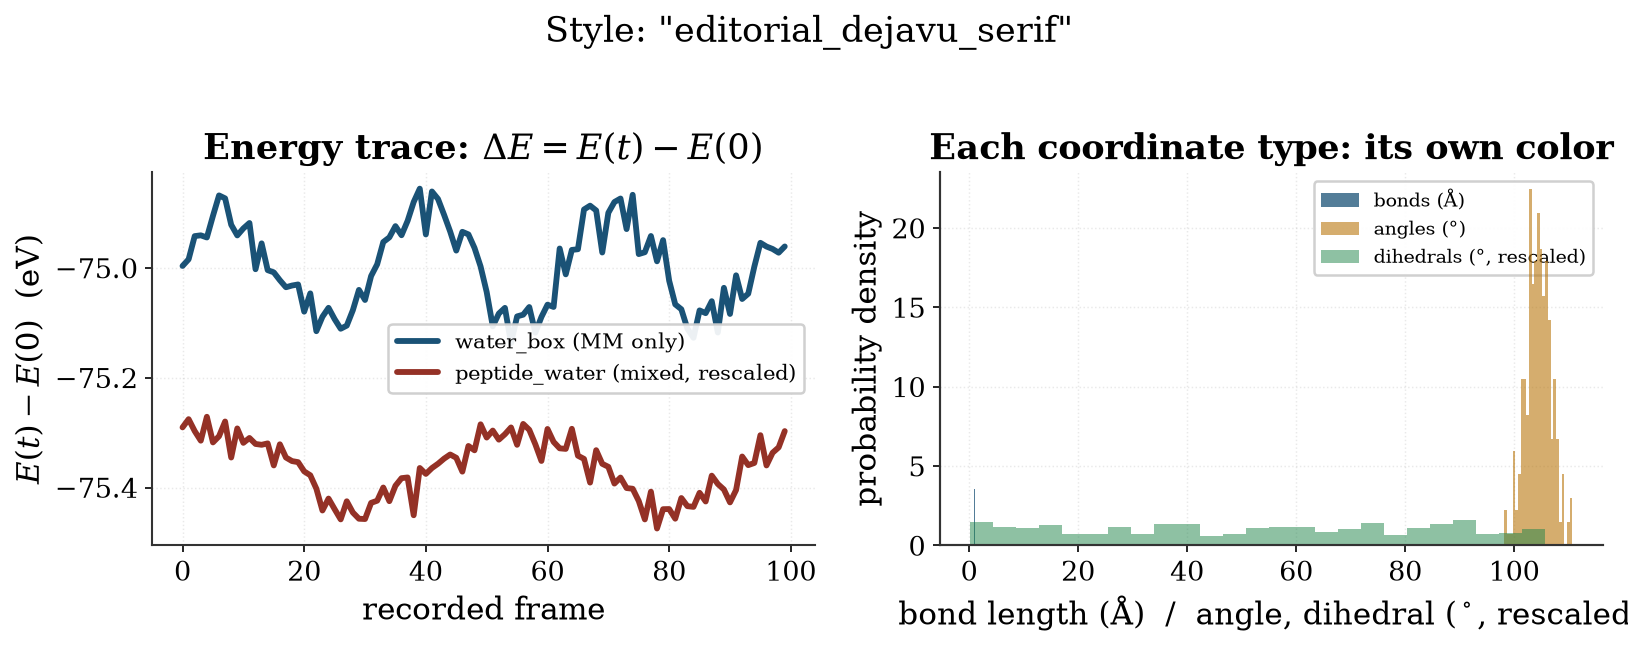
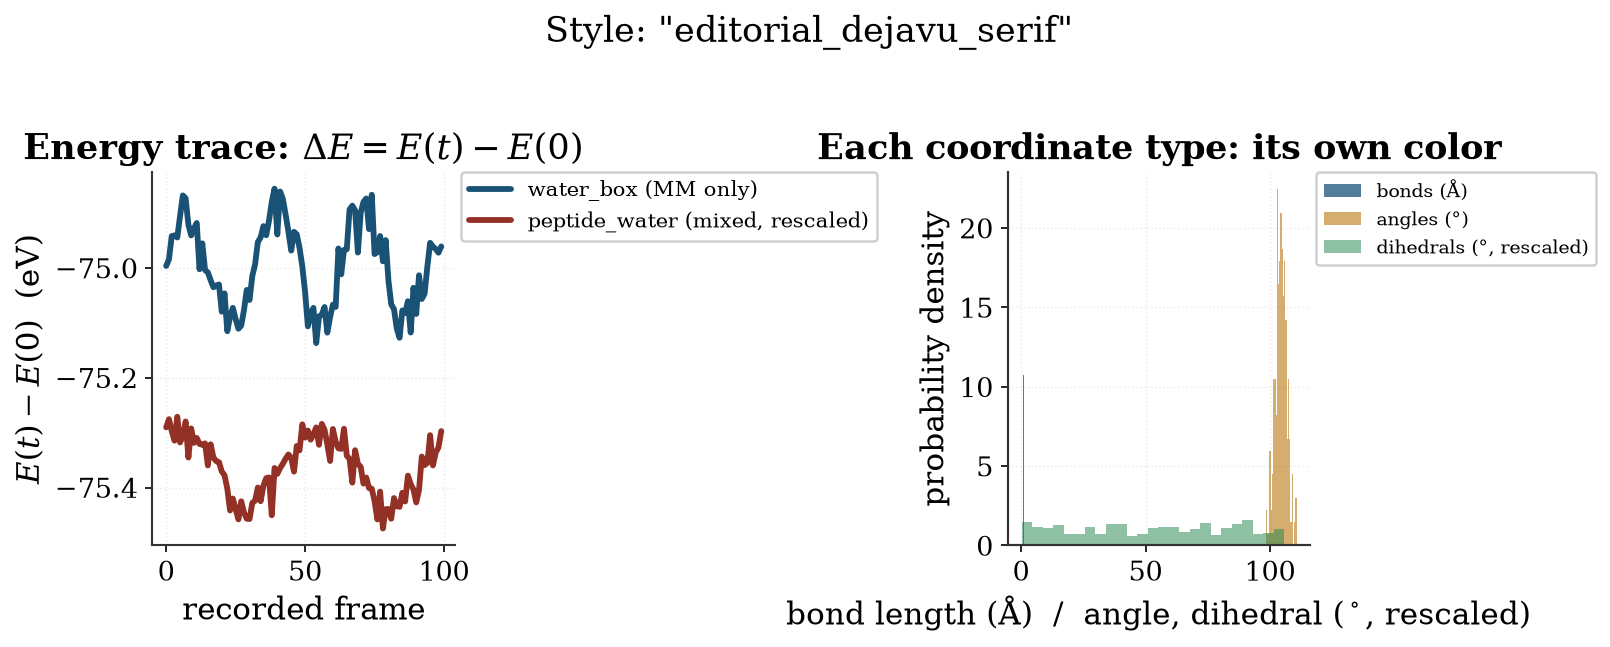
feat: add ICML-vibe plot preset, legend_outside rule, ASE-atoms style note
New "icml" preset (mmml/utils/plotting/styles.py): clean sans-serif, muted
seaborn-deep-style categorical colors, moderate type -- closer to a Google
look with an ML-conference-paper feel, per feedback that the editorial_*
serif fonts weren't to taste. Now the default for both workflows'
plot_results.py and plot_structure.py.

New legend_outside(axis, **kwargs) helper: places the legend to the right
of the axes (bbox_to_anchor) instead of overlapping data, and lets it grow
long (reads like a small table) for many-setting sweeps -- new house rule
documented in docs/plotting-style-guide.md "Legends live outside the plot".
Applied to every legend in both plot_results.py scripts and the gallery
renderer.

docs/plotting-style-guide.md also gains a note on rendering ASE Atoms
(molecule structure drawings): reuse scripts/plot_utils.py::render_dimer_atoms,
the existing good precedent from the SpookyNet dimer-scan figures
(scripts/plot_1d_slices_by_offset.py, scripts/plot_2d_pes.py) -- jmol
element colors, covalent-radius atom sizing, depth-sorted alpha, projected
force arrows.

docs/plot-style-gallery.md updated with the icml render and the dropped
editorial_stixsans variant already noted.

diff --git a/mmml/utils/plotting/styles.py b/mmml/utils/plotting/styles.py
@@ -16,6 +16,7 @@ __all__ = [
     "get_plot_style",
     "list_plot_styles",
     "comparison_colors",
+    "legend_outside",
 ]
 
 
@@ -280,6 +281,66 @@ _EDITORIAL_RC_CM = _editorial_rc(
     family="serif", serif=["DejaVu Serif"], mathtext_fontset="cm")
 
 
+# ICML/NeurIPS-paper-figure vibe: clean sans-serif, moderate (not oversized)
+# type, muted "seaborn deep"-style categorical colors, legend meant to live
+# OUTSIDE the axes (see legend_outside() below) rather than overlapping data.
+# This is the closest preset to a modern ML-conference plot: less soft/round
+# than "google", less serif/journal than the editorial_* family.
+_ICML_COLORS = {
+    "train": "#4C72B0",   # muted blue
+    "valid": "#DD8452",   # muted orange
+    "best": "#55A868",    # muted green
+    "accent": "#C44E52",  # muted red
+    "lr": "#8172B2",      # muted purple
+    "muted": "#937860",   # muted brown
+}
+_ICML_RC = {
+    "figure.facecolor": "white",
+    "axes.facecolor": "white",
+    "axes.edgecolor": "#444444",
+    "axes.linewidth": 1.0,
+    "axes.labelsize": 13,
+    "axes.titlesize": 14,
+    "axes.titleweight": "bold",
+    "axes.spines.top": False,
+    "axes.spines.right": False,
+    "axes.grid": True,
+    "grid.alpha": 0.25,
+    "grid.linestyle": "-",
+    "grid.linewidth": 0.6,
+    "grid.color": "#DDDDDD",
+    "axes.axisbelow": True,
+    "legend.framealpha": 0.95,
+    "legend.fontsize": 11,
+    "legend.edgecolor": "#CCCCCC",
+    "xtick.labelsize": 12,
+    "ytick.labelsize": 12,
+    "font.family": "sans-serif",
+    "font.sans-serif": ["Helvetica Neue", "Arial", "DejaVu Sans"],
+    "font.size": 12,
+    "mathtext.fontset": "dejavusans",
+    "lines.linewidth": 2.4,
+    "lines.solid_capstyle": "round",
+    "lines.markersize": 7,
+    "patch.linewidth": 1.0,
+    "savefig.dpi": 200,
+}
+
+
+def legend_outside(axis, *, ncol: int = 1, **kwargs: Any):
+    """Place a legend outside the axes (right-hand side), per house convention.
+
+    Legends must never overlap plotted data -- see
+    docs/plotting-style-guide.md "Legends live outside the plot". A legend
+    placed this way is also free to grow large (many entries, long labels)
+    without crowding the data, so it can double as a compact table when
+    useful (e.g. one row per setting with its color/marker as the row key).
+    """
+    return axis.legend(
+        loc="upper left", bbox_to_anchor=(1.02, 1.0), borderaxespad=0.0, ncol=ncol, **kwargs
+    )
+
+
 # Classic matplotlib defaults (pre-seaborn era feel).
 _MPL_CLASSIC_COLORS = {
     "train": "#1f77b4",
@@ -419,6 +480,15 @@ PLOT_STYLES: dict[str, PlotStyle] = {
         comparison_palette=("#1A5276", "#943126", "#B9770E", "#1E8449", "#6C3483", "#5D6D7E"),
         train_linewidth=2.8, valid_linewidth=3.2, best_marker_edge="#222222", best_marker_size=160.0,
         text_box={"boxstyle": "round", "facecolor": "#FBFBF8", "edgecolor": "#999999", "alpha": 0.95},
+    ),
+    "icml": _style(
+        "icml",
+        "ICML/NeurIPS-paper vibe: clean sans-serif, muted categorical colors, "
+        "legend meant to live outside the axes (see legend_outside()).",
+        colors=_ICML_COLORS, rc_params=_ICML_RC,
+        comparison_palette=("#4C72B0", "#DD8452", "#55A868", "#C44E52", "#8172B2", "#937860"),
+        train_linewidth=2.4, valid_linewidth=2.6, best_marker_edge="#333333", best_marker_size=130.0,
+        text_box={"boxstyle": "round", "facecolor": "#FAFAFA", "edgecolor": "#CCCCCC", "alpha": 0.95},
     ),
     "mpl_classic": _style(
         "mpl_classic",

diff --git a/scripts/render_plot_style_gallery.py b/scripts/render_plot_style_gallery.py
@@ -1,13 +1,12 @@
 #!/usr/bin/env python3
-"""Render the same example figure under every 'editorial_*' font variant.
+"""Render the same example figure under every registered style variant.
 
 Produces docs/plot-style-gallery-assets/<style>.png for each style so
 docs/plot-style-gallery.md can show them side by side -- lets a human pick a
-typeface by eye rather than from a description. See
-docs/plotting-style-guide.md "Semantic color, not palette index" for the
-non-font parts of the convention (these examples also demonstrate it: each
-data *type* -- bonds/angles/dihedrals -- gets its own color, not one blue
-reused three times).
+look by eye rather than from a description. Also demonstrates two other
+house rules from docs/plotting-style-guide.md: "Semantic color, not palette
+index" (bonds/angles/dihedrals each get their own color, not one blue reused
+three times) and "Legends live outside the plot" (via legend_outside()).
 """
 
 from __future__ import annotations
@@ -17,7 +16,7 @@ from pathlib import Path
 import matplotlib.pyplot as plt
 import numpy as np
 
-from mmml.utils.plotting.styles import apply_plot_style, get_plot_style
+from mmml.utils.plotting.styles import apply_plot_style, get_plot_style, legend_outside
 
 OUT_DIR = Path(__file__).resolve().parents[1] / "docs" / "plot-style-gallery-assets"
 
@@ -41,7 +40,7 @@ def _example_figure(style_name: str) -> plt.Figure:
     ax_trace.set_xlabel("recorded frame")
     ax_trace.set_ylabel(r"$E(t) - E(0)$  (eV)")
     ax_trace.set_title(r"Energy trace: $\Delta E = E(t) - E(0)$")
-    ax_trace.legend(fontsize=10, loc="best")
+    legend_outside(ax_trace, fontsize=10)
 
     # Each coordinate TYPE gets its own semantic color -- not one blue reused
     # for bonds/angles/dihedrals (the mistake this gallery/fix addresses).
@@ -59,7 +58,7 @@ def _example_figure(style_name: str) -> plt.Figure:
     ax2.set_yticks([])
     lines1, labels1 = ax_hist.get_legend_handles_labels()
     lines2, labels2 = ax2.get_legend_handles_labels()
-    ax_hist.legend(lines1 + lines2, labels1 + labels2, fontsize=9, loc="upper right")
+    legend_outside(ax2, handles=lines1 + lines2, labels=labels1 + labels2, fontsize=9)
 
     fig.suptitle(f'Style: "{style_name}"', y=1.03)
     fig.tight_layout()
@@ -73,6 +72,7 @@ def main() -> None:
         "editorial_dejavu_serif",
         "editorial_stix",
         "editorial_cm",
+        "icml",
     ]
     for name in variants:
         plt.rcdefaults()

diff --git a/workflows/mixed_calculator_sweep/scripts/plot_results.py b/workflows/mixed_calculator_sweep/scripts/plot_results.py
@@ -36,9 +36,9 @@ import matplotlib.pyplot as plt
 import numpy as np
 
 from mmml.md.results import energy_drift_metrics
-from mmml.utils.plotting.styles import apply_plot_style
+from mmml.utils.plotting.styles import apply_plot_style, legend_outside
 
-_STYLE_NAME = "editorial_dejavu_serif"  # swap freely -- see docs/plot-style-gallery.md
+_STYLE_NAME = "icml"  # see docs/plot-style-gallery.md
 
 # Semantic system -> color (see module docstring). Not palette-index colors.
 _SYSTEM_COLORS = {"water_box": "#1A5276", "peptide_water": "#943126"}
@@ -124,7 +124,9 @@ def plot_energy_traces(rows: list[dict[str, str]], results_dir: Path, out: Path)
 
     ax_main.set_ylabel(r"$E(t) - E(0)$  (eV)")
     ax_main.set_title(r"Energy traces relative to $E(0)$  (dashed = trend fit, band = $\pm\sigma$)")
-    ax_main.legend(fontsize=10, ncol=2, loc="best", framealpha=0.85, edgecolor="#CCCCCC")
+    # Outside the axes (never over the data) -- with this many settings the
+    # legend is long, and reads like a table (color+marker -> setting name).
+    legend_outside(ax_main, fontsize=10)
 
     ax_outlier.set_xlabel("recorded frame (every record_every steps)")
     ax_outlier.set_ylabel(r"$E(t) - E(0)$  (eV)")
@@ -132,7 +134,7 @@ def plot_energy_traces(rows: list[dict[str, str]], results_dir: Path, out: Path)
         ax_outlier.set_title(
             f"Large-swing settings (own axis): {', '.join(sorted(outliers))}"
         )
-        ax_outlier.legend(fontsize=10, loc="best", framealpha=0.85, edgecolor="#CCCCCC")
+        legend_outside(ax_outlier, fontsize=10)
     else:
         ax_outlier.set_title("No settings exceeded the 1000 eV outlier threshold")
 
@@ -189,7 +191,7 @@ def plot_summary_bars(rows: list[dict[str, str]], results_dir: Path, out: Path) 
     from matplotlib.patches import Patch
     handles = [Patch(facecolor=c, edgecolor="#222222", label=_SYSTEM_LABELS[s])
                for s, c in _SYSTEM_COLORS.items()]
-    ax_fluct.legend(handles=handles, loc="upper left", fontsize=11, framealpha=0.85, edgecolor="#CCCCCC")
+    legend_outside(ax_fluct, handles=handles, fontsize=11)
 
     fig.tight_layout()
     fig.savefig(out, dpi=200, bbox_inches="tight")

diff --git a/workflows/unified_backend_sweep/scripts/plot_results.py b/workflows/unified_backend_sweep/scripts/plot_results.py
@@ -29,9 +29,9 @@ from pathlib import Path
 
 import matplotlib.pyplot as plt
 
-from mmml.utils.plotting.styles import apply_plot_style
+from mmml.utils.plotting.styles import apply_plot_style, legend_outside
 
-_STYLE_NAME = "editorial_dejavu_serif"  # swap freely -- see docs/plot-style-gallery.md
+_STYLE_NAME = "icml"  # see docs/plot-style-gallery.md
 
 _BACKEND_COLORS = {
     "jaxmd_min": "#5D6D7E",   # neutral gray -- deterministic minimization
@@ -93,7 +93,7 @@ def plot_summary_bars(rows: list[dict[str, str]], out: Path) -> Path:
 
     from matplotlib.patches import Patch
     handles = [Patch(facecolor=c, edgecolor="#222222", label=b) for b, c in _BACKEND_COLORS.items()]
-    ax_fluct.legend(handles=handles, loc="best", fontsize=10, ncol=2, framealpha=0.85, edgecolor="#CCCCCC")
+    legend_outside(ax_fluct, handles=handles, fontsize=10)
 
     fig.tight_layout()
     fig.savefig(out, dpi=200, bbox_inches="tight")

diff --git a/workflows/mixed_calculator_sweep/scripts/plot_structure.py b/workflows/mixed_calculator_sweep/scripts/plot_structure.py
@@ -29,7 +29,7 @@ from mmml.utils.plotting.trajectory_structure import (
     internal_coordinate_distributions,
 )
 
-_STYLE_NAME = "editorial_dejavu_serif"  # swap freely -- see docs/plot-style-gallery.md
+_STYLE_NAME = "icml"  # see docs/plot-style-gallery.md
 
 
 def _load_reference_plotting_module(repo_root: Path):

diff --git a/docs/plotting-style-guide.md b/docs/plotting-style-guide.md
@@ -32,8 +32,9 @@ colors = comparison_colors(style, n=len(settings))  # fixed categorical order
 
 | Preset | When |
 |---|---|
-| `"editorial_dejavu_sans"` / `"editorial_dejavu_serif"` / `"editorial_stix"` / `"editorial_cm"` | **Default family for sweep/analysis figures meant to be read, not just glanced at** (energy traces, RDFs, bond/angle histograms, anything going in a writeup) — large type (`axes.labelsize=15`, `axes.titlesize=17` bold), thick lines (`lines.linewidth=2.8`), LaTeX-style math via `mathtext.fontset` (no TeX install needed — `r"$E(t) - E(0)$"` just works), no top/right spine, faint dotted grid. The four variants share this **same axis/spacing treatment** and differ only in typeface — see [`docs/plot-style-gallery.md`](plot-style-gallery.md) for a rendered side-by-side comparison before picking one. Used by both `workflows/*/scripts/plot_results.py` and `plot_structure.py` (currently defaulted to `editorial_dejavu_serif`, pending a final pick). |
-| `"nature"` (alias `"pub"`/`"publication"`) | Compact journal-figure alternative when the editorial family's larger type doesn't fit a multi-panel grid — sans-serif, `axes.labelsize=9`. |
+| `"icml"` | **Default for sweep/analysis figures** (energy traces, RDFs, bond/angle histograms, anything going in a writeup) — clean sans-serif, muted "seaborn deep"-style categorical colors (`#4C72B0`/`#DD8452`/`#55A868`/...), moderate type (`axes.labelsize=13`), no top/right spine. The closest preset to a modern ML-conference (ICML/NeurIPS) figure — less soft/rounded than `"google"`, less serif/journal than the `editorial_*` family. Pairs with `legend_outside()` (see below). Used by `workflows/*/scripts/plot_results.py` and `plot_structure.py`. |
+| `"editorial_dejavu_sans"` / `"editorial_dejavu_serif"` / `"editorial_stix"` / `"editorial_cm"` | An alternative "read from across the room" family (e.g. a talk slide) — large type (`axes.labelsize=15`, `axes.titlesize=17` bold), thick lines (`lines.linewidth=2.8`), LaTeX-style math via `mathtext.fontset`, no top/right spine, faint dotted grid. The four variants share this axis/spacing treatment and differ only in typeface — see [`docs/plot-style-gallery.md`](plot-style-gallery.md) for a rendered comparison. |
+| `"nature"` (alias `"pub"`/`"publication"`) | Compact journal-figure alternative when `"icml"`'s or the editorial family's type doesn't fit a dense multi-panel grid — sans-serif, `axes.labelsize=9`. |
 | `"google"` (module default) | Training-curve dashboards (loss/lr curves) — this is what most existing training-plot scripts assume implicitly. |
 | `"mpl_classic"` | Quick throwaway diagnostics where house branding doesn't matter. |
 | `"xmgrace"` / `"tron"` | Not for new work — legacy/novelty presets. |
@@ -91,6 +92,30 @@ Concrete house examples (both from `workflows/*/scripts/plot_results.py`):
 When in doubt: if you can name *why* a series has the color it has (its
 system, its physics, its pass/fail status) in one short phrase, it's
 semantic. If the only answer is "it's next in the list," fix it.
+
+## Legends live outside the plot
+
+**A legend never overlaps the data.** Use
+[`mmml.utils.plotting.styles.legend_outside(axis, **kwargs)`](../mmml/utils/plotting/styles.py)
+instead of `axis.legend(loc="best", ...)`:
+
+```python
+from mmml.utils.plotting.styles import legend_outside
+
+legend_outside(ax, fontsize=10)                       # positional labels already on the plotted lines
+legend_outside(ax, handles=handles, fontsize=11)       # explicit handles (e.g. Patch legend)
+```
+
+This places the legend to the right of the axes (`bbox_to_anchor=(1.02, 1.0),
+loc="upper left"`), never covering a data point regardless of where the data
+happens to sit. Because it's outside, **it's free to grow long** — a
+12-setting sweep's legend reads like a small table (marker/color → setting
+name) rather than needing to be trimmed to fit inside the plot. Don't
+economize on legend entries to make them fit inside the axes; if the legend
+needs to be big, let it be big outside instead.
+
+`fig.savefig(..., bbox_inches="tight")` (already the house convention) picks
+up the external legend automatically — no extra figure-size tuning needed.
 
 ## Figure conventions (from real precedent, not invented)
 
@@ -184,3 +209,31 @@ frames = [
 `plot_rdfs`, `plot_internal`, `plot_hydrogen_bond_timeseries`, etc. — reuse
 its plotting functions directly rather than re-plotting the same arrays with
 different styling.
+
+## Rendering ASE `Atoms` (molecule structure drawings)
+
+For drawing actual molecular geometry (not a data curve) — e.g. a dimer
+snapshot alongside an energy-scan plot — reuse
+[`scripts/plot_utils.py::render_dimer_atoms`](../scripts/plot_utils.py),
+the good precedent already in the repo (used by the SpookyNet dimer-scan
+figures in `scripts/plot_1d_slices_by_offset.py` and `scripts/plot_2d_pes.py`):
+
+- Atom size from `ase.data.covalent_radii` (scaled by `radii_scale`), color
+  from `ase.data.colors.jmol_colors` — the same "semantic color" principle
+  as the RDF element coloring above, applied to the atoms themselves.
+- Camera angle as an `ase.io.utils.rotate`-style string (e.g.
+  `"15x,-20y,0z"`), projected to 2D — not a fixed top-down view.
+- Bonds drawn as lines only within a fragment (same-monomer atom pairs
+  closer than `bond_cutoff_scale * (sum of covalent radii)`), so
+  intermolecular contacts in a dimer aren't mistaken for bonds.
+- Atoms drawn back-to-front (sorted by projected depth) with per-atom alpha
+  as a depth cue, so overlapping monomers stay legible instead of a flat
+  jumble.
+- Optional force-arrow overlay via `ax.quiver`, projected through the same
+  rotation matrix as the atoms.
+
+`plot_2d_pes.py`'s `_plot_atoms_filmstrip` (a strip of geometry snapshots
+along a scan coordinate) and `plot_1d_slices_by_offset.py`'s per-slice
+minimum-energy-geometry inset are the reference patterns for combining a
+structure drawing with an energy curve in one figure — reuse those, don't
+re-derive the atom-rendering logic for a new script.

diff --git a/docs/plot-style-gallery.md b/docs/plot-style-gallery.md
@@ -1,10 +1,30 @@
 # Plot style gallery
 
-Renders of the same example figure under each `editorial_*` font variant
-(`mmml.utils.plotting.styles`), so a typeface can be picked by eye instead of
-from a description. All four share the **same axes/spacing treatment** —
-large type, thick lines, no top/right spine, faint grid — only the font
-differs. Regenerate with `python scripts/render_plot_style_gallery.py`.
+Renders of the same example figure under each registered style
+(`mmml.utils.plotting.styles`), so a look can be picked by eye instead of
+from a description. Regenerate with `python scripts/render_plot_style_gallery.py`.
+
+Every example also demonstrates the **legend-outside-the-plot** rule (see
+`docs/plotting-style-guide.md` "Legends live outside the plot") via
+`legend_outside(ax)` — never overlapping the data, and free to grow long
+(reads like a small table of series → color/marker) without crowding
+anything.
+
+**Current pick: `"icml"`** — clean sans-serif, muted "seaborn deep"-style
+categorical colors, moderate (not oversized) type; the closest preset to a
+modern ML-conference figure. This is what `workflows/*/scripts/plot_results.py`
+and `plot_structure.py` use by default now.
+
+## `icml`
+
+![icml](plot-style-gallery-assets/icml.png)
+
+## The `editorial_*` family (large-type/thick-line/no-spine variants)
+
+These four share the **same axes/spacing treatment** — large type, thick
+lines, no top/right spine, faint grid — only the font differs. Kept in the
+gallery as an alternative "read from across the room" look for a different
+kind of figure (e.g. a talk slide) than `"icml"`'s conference-paper density.
 
 **Note on naming**: these were previously grouped under one preset literally
 called `"tufte"`. That was a category error — Tufte described *principles*
@@ -56,14 +76,13 @@ specifically, while regular text stays DejaVu.
 ```python
 from mmml.utils.plotting.styles import apply_plot_style
 
-apply_plot_style("editorial_dejavu_serif")  # or _dejavu_sans / _stix / _cm
+apply_plot_style("icml")  # or editorial_dejavu_serif / _dejavu_sans / _stix / _cm
 ```
 
-Update `_STYLE_NAME` in `workflows/*/scripts/plot_results.py` and
-`plot_structure.py` to whichever is chosen (currently defaulted to
-`editorial_dejavu_serif` pending a decision) — see
-[`docs/plotting-style-guide.md`](plotting-style-guide.md) for the rest of
-the convention (semantic color, DPI, uncertainty shading).
+`_STYLE_NAME` in `workflows/*/scripts/plot_results.py` and `plot_structure.py`
+is currently `"icml"` — see [`docs/plotting-style-guide.md`](plotting-style-guide.md)
+for the rest of the convention (semantic color, DPI, uncertainty shading,
+legends outside).
 
 (There was a 5th candidate, `editorial_stixsans`, dropped from the gallery:
 matplotlib has no real "STIX Sans" font bundled, so it silently fell back to
